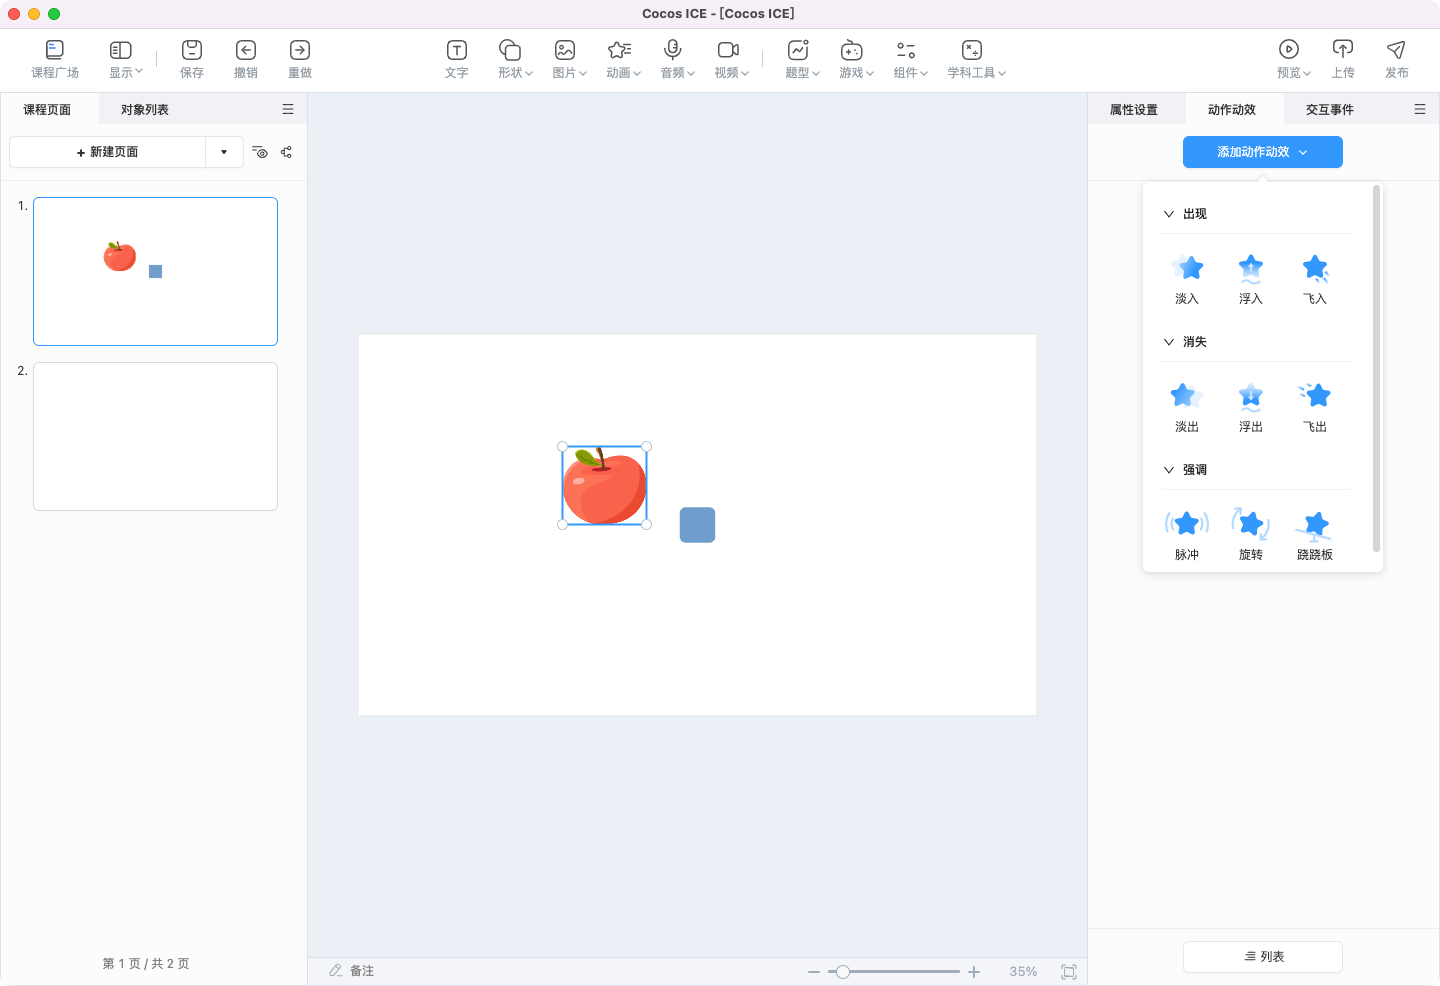
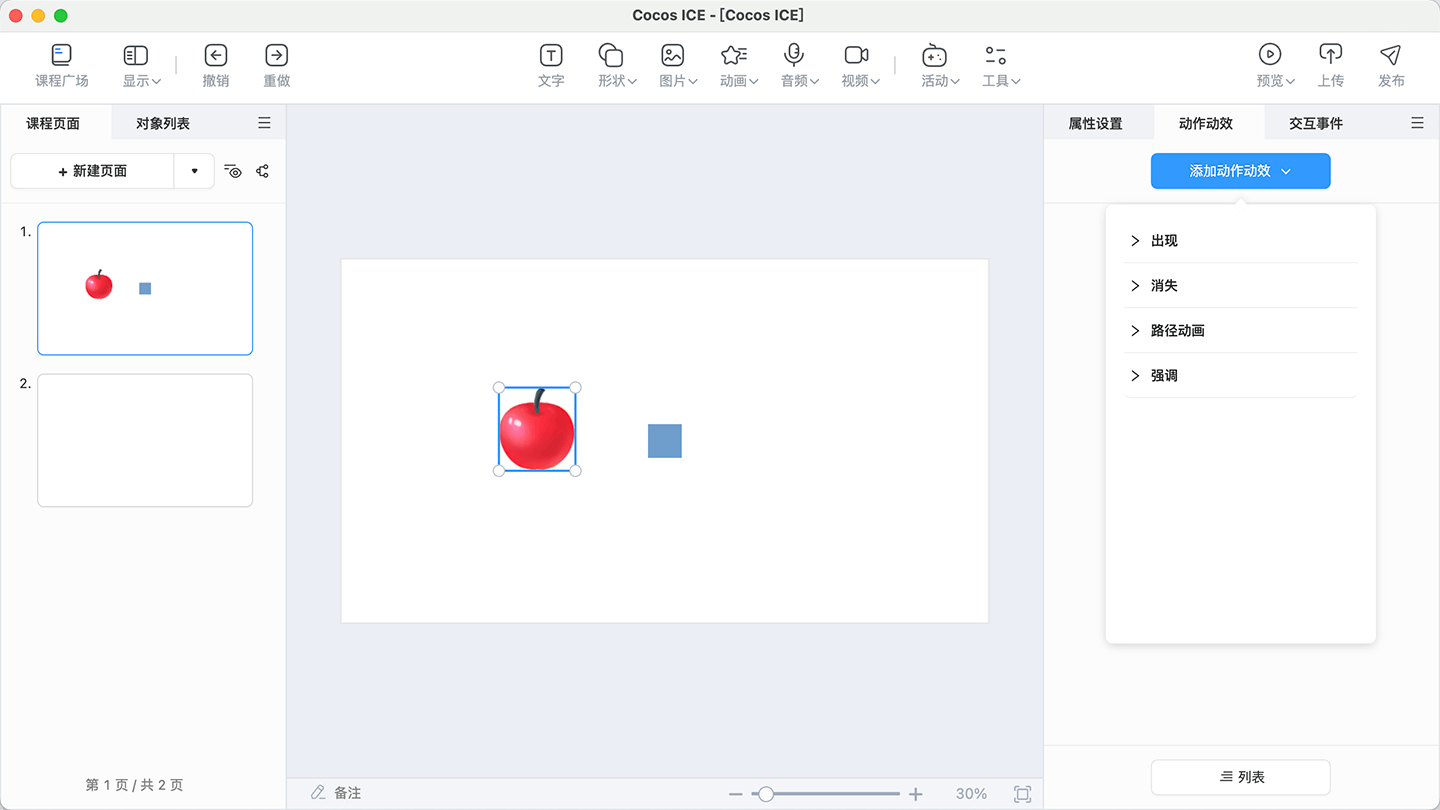
新增路径动效、预览介绍、页面切换动效和自定义页面切换动效目录

diff --git a/zh/getting-started/preview/index.md b/zh/getting-started/preview/index.md
@@ -1,0 +1,35 @@
+# 预览
+
+点击编辑器主界面 **工具栏** 右侧的 **预览** 按钮，可以对当前课程进行预览。点击 **预览** 按钮下方 ![点击区域](img/selectedpreview1.png)，便可选择从头预览或者是从当前页面预览。
+
+![预览方式选择](img/selectedpreview2.png)
+
+## 预览界面介绍
+
+点击 **预览** 后，会进入预览页面，如下图所示。
+
+![预览界面](img/preview.png)
+
+1. **分辨率选择**:点击界面左下角的选择框，便可选择不同设备的分辨率，查看不同分辨率下该课程的预览情况。
+
+    ![分辨率选择](img/resolution.png)
+
+2. **旋转**：点击 **旋转** 按钮，便可让预览画面进行横竖屏的切换。
+
+    ![旋转](img/rotate.png)
+
+3. **快捷翻页**：在这里可以点击对应页数或者翻页按钮，进行快捷翻页的操作。
+
+    ![快捷翻页](img/pageturning.png)
+
+4. **全屏和原始尺寸预览**：当画面在全屏预览状态下，则按钮会变成 **原始尺寸** 状态；当画面在原始尺寸预览状态下，则按钮会变成 **全屏** 状态。点击按钮，便可以让预览画面进行原始尺寸或者全屏的预览。
+
+    ![全屏或原始尺寸预览](img/fullscreen.png)
+
+5. **二维码预览**：点击 **二维码预览** 按钮，便会出现预览二维码，用户可以通过扫描二维码，在手机上进行课程的预览。
+
+    ![二维码预览](img/QRcode.png)
+
+6. **上传和发布**：点击 **上传** 和 **发布** 按钮，便可进行课程上传和发布的操作。
+
+    ![上传和发布](img/publish.png)

diff --git a/zh/effect/index.md b/zh/effect/index.md
@@ -6,9 +6,25 @@
 
 ## 基础操作
 
-1. **添加动作动效**：在编辑器内选中对象后，可在动作动效面板点击 **添加动作动效**，为对象选择合适的动作动效，便可在课件中实现趣味的动效效果。
+1. **添加动作动效**：在编辑器内选中对象后，可在动作动效面板点击 **添加动作动效**，目前有四类动作动效，分别是出现、消失、强调和路径动效，为对象选择合适的动作动效，便可在课件中实现趣味的动效效果。
 
     ![添加动作动效](img/addeffect.png)
+
+    - **出现动效**：目前支持淡入、浮入、飞入和缩放。
+
+        ![出现动效](img/appear.png)
+
+    - **消失动效**：目前支持淡出、浮出和飞出。
+
+        ![消失动效](img/disappear.png)
+
+    - **强调动效**：目前支持脉冲、旋转和跷跷板。
+
+        ![强调动效](img/emphasize.png)
+
+    - **路径动效**：目前支持自由曲线路径和直线路径。
+
+        ![路径动效](img/path.png)
 
 2. **编辑动作动效**：为对象添加了合适的动作动效后，便会在 **动作动效面板** 和 **列表面板** 中展示出来，用户可以自由地编辑和设置动作动效。
 

diff --git a/zh/SUMMARY.md b/zh/SUMMARY.md
@@ -11,6 +11,7 @@
     - [编辑器界面总览](getting-started/interface-overview/index.md)
     - [课件制作](getting-started/make-courseware/index.md)
     - [互动视频制作](getting-started/make-interactive-video/index.md)
+    - [预览](preview/index.md)
     - [上传和发布](getting-started/publish-lesson/index.md)
     - [获取帮助和支持](getting-started/help/index.md)
 - [版本更新说明](version-info/index.md)
@@ -51,6 +52,7 @@
     - [自定义属性](developer/develop-component/develop-properties/index.md)
     - [节点设置](developer/develop-component/node-setting/index.md)
 - [自定义事件](developer/develop-event/index.md)
+- [自定义页面动效](developer/develop-page_effect/index.md)
 - [扩展右键菜单](developer/menu-extension/index.md)
 - [强制刷新页面缩略图](developer/refresh-page/index.md)
 - [自定义面板](developer/develop-panel/index.md)

diff --git a/zh/page/index.md b/zh/page/index.md
@@ -18,6 +18,10 @@
 
 - 在页面上悬停时，点击 ![预览](img/preview.png) 可以从当前页面预览。
 
-- 选中页面时，可以在右侧属性设置面板编辑页面属性，设置背景颜色或图片。
+- 选中页面时，可以在右侧属性设置面板编辑页面属性，设置背景颜色、图片和页面切换动效。
 
     ![页面属性](img/page_component.png)
+
+    - 目前页面切换动效支持淡入/淡出、覆盖、揭开、推入，还支持企业 [**自定义页面动效**](../developer/develop-page_effect/index.md)
+
+        ![页面动效](img/page_animation.png)

diff --git a/zh/getting-started/index.md b/zh/getting-started/index.md
@@ -9,5 +9,6 @@ Cocos ICE 互动课件编辑器（全称 **Cocos Interactive Courseware Editor**
 - [编辑器界面总览](interface-overview/index.md)
 - [课件制作](make-courseware/index.md)
 - [互动视频制作](make-interactive-video/index.md)
+- [预览](preview/index.md)
 - [上传和发布](publish-lesson/index.md)
 - [获取帮助和支持](help/index.md)

diff --git a/zh/developer/develop-page_effect/index.md b/zh/developer/develop-page_effect/index.md
@@ -1,0 +1,2 @@
+# 自定义页面动效
+
